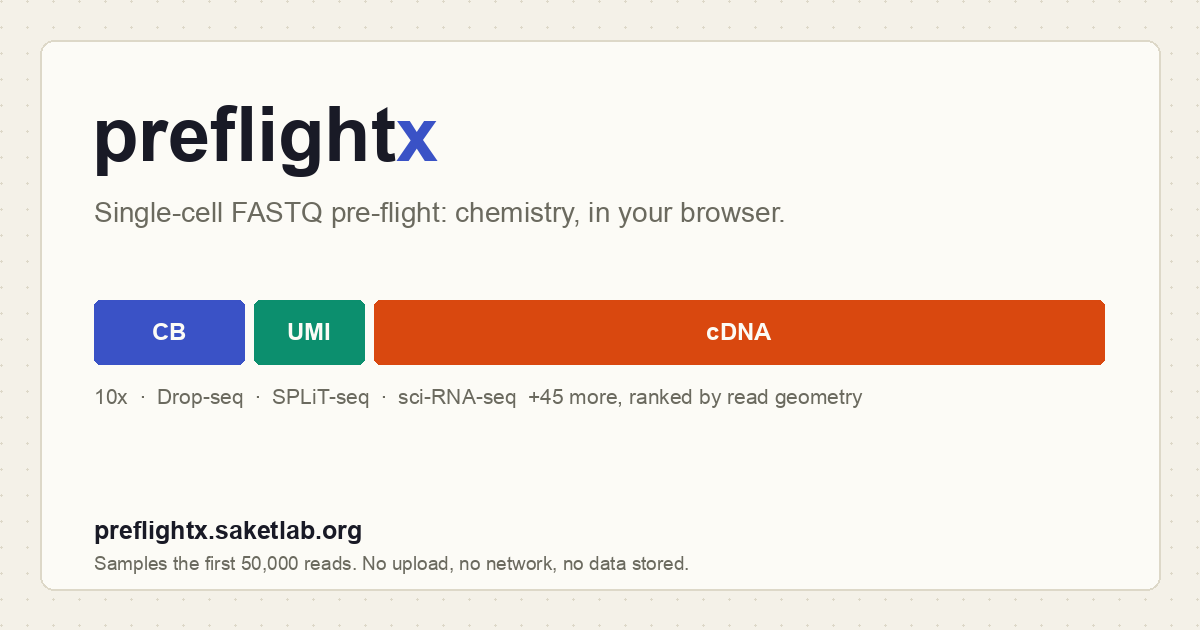
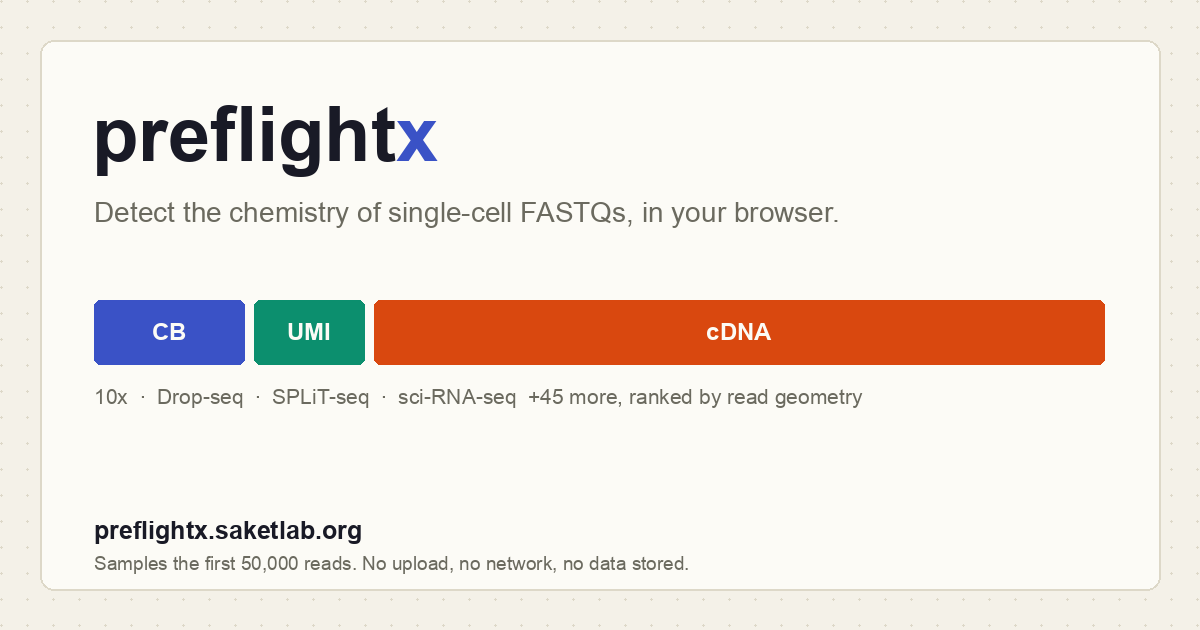
Clarify language

Changed region(s): [[0.0617, 0.3016, 0.7092, 0.3619]]

diff --git a/web/index.html b/web/index.html
@@ -189,7 +189,7 @@
 <body>
 <header>
   <h1>preflight<span class="x">x</span></h1>
-  <div class="tag">Single-cell FASTQ pre-flight: chemistry.</div>
+  <div class="tag">Detect the chemistry of single-cell FASTQs.</div>
   <div class="priv">🔒 No data is stored. Runs in your browser.</div>
 </header>
 
